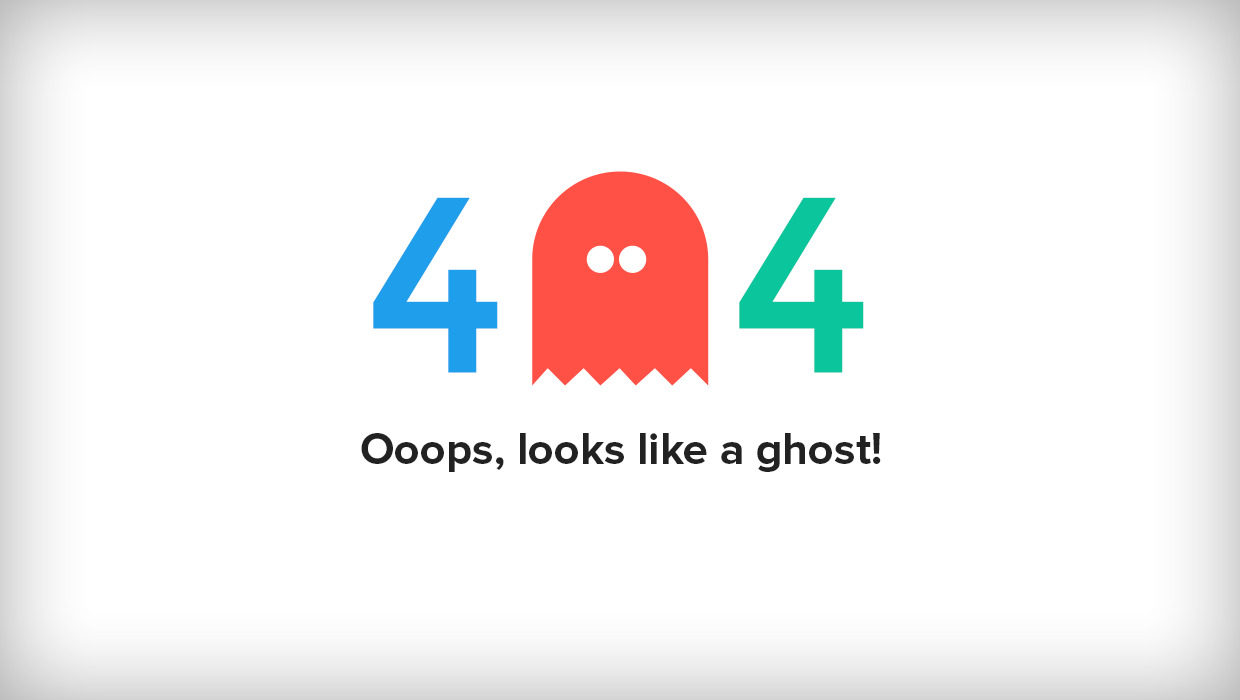
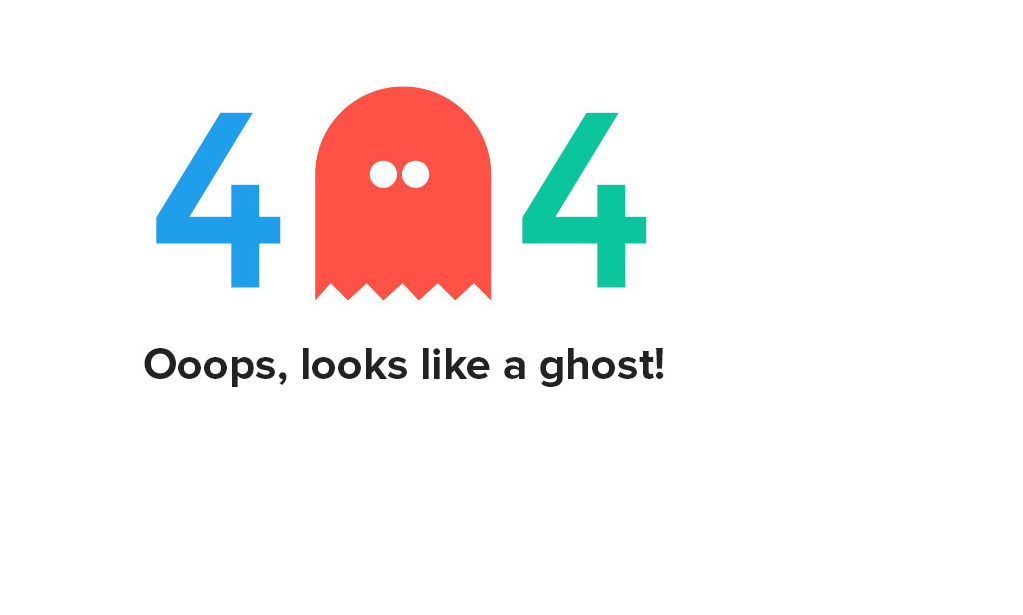
rebuilding site 2022년 3월 22일 화요일 23시 37분 15초 KST

Changed region(s): [[0.1212, 0.1236, 0.7273, 0.6797], [0.0, 0.0, 1.0, 1.0], [0.1515, 0.1854, 0.2727, 0.4634]]

diff --git a/404.html b/404.html
@@ -88,14 +88,7 @@
 
   <main>
     
-<div>
-  <img src="/404-error.jpeg"/>
-  <article>
-    <h1>
-      This is not the page you were looking for
-    </h1>
-  </article>
-</div>
+<img src="/404-error.jpeg"/>
 
   </main>
 
